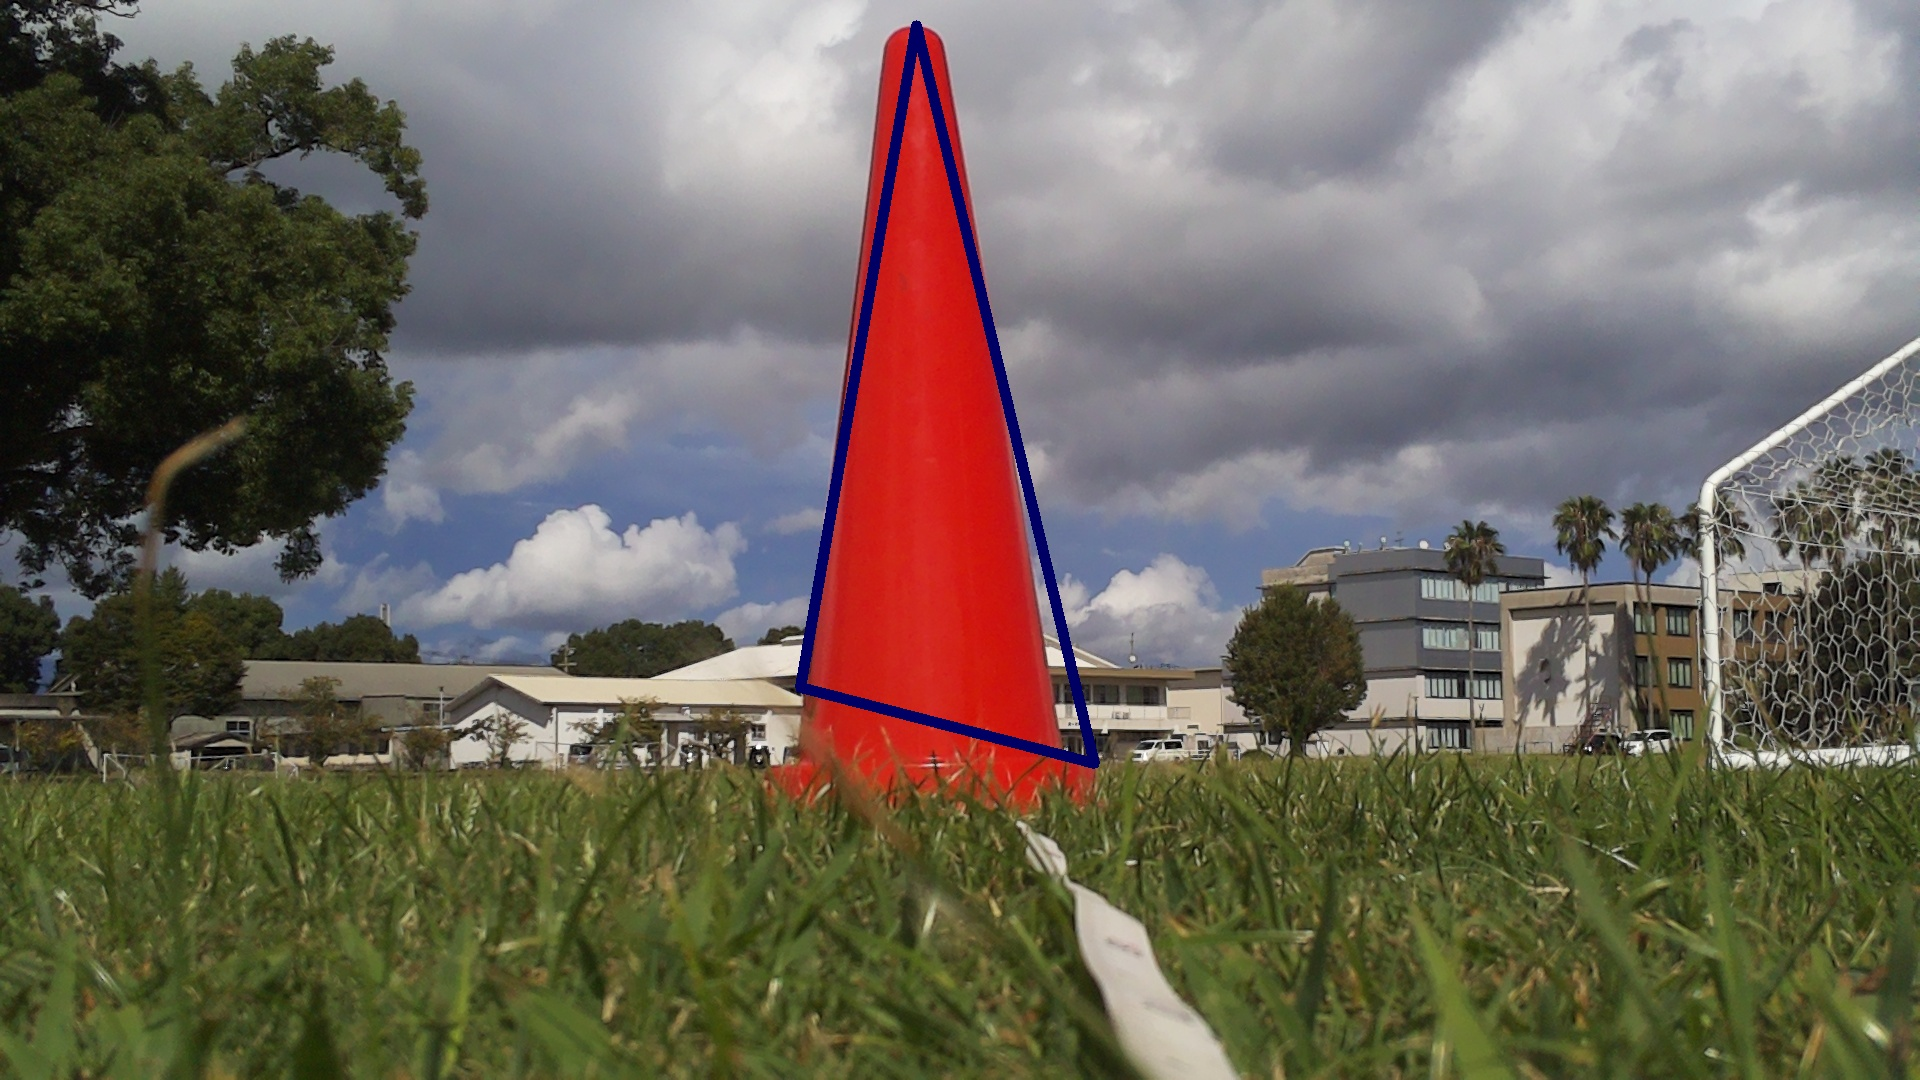
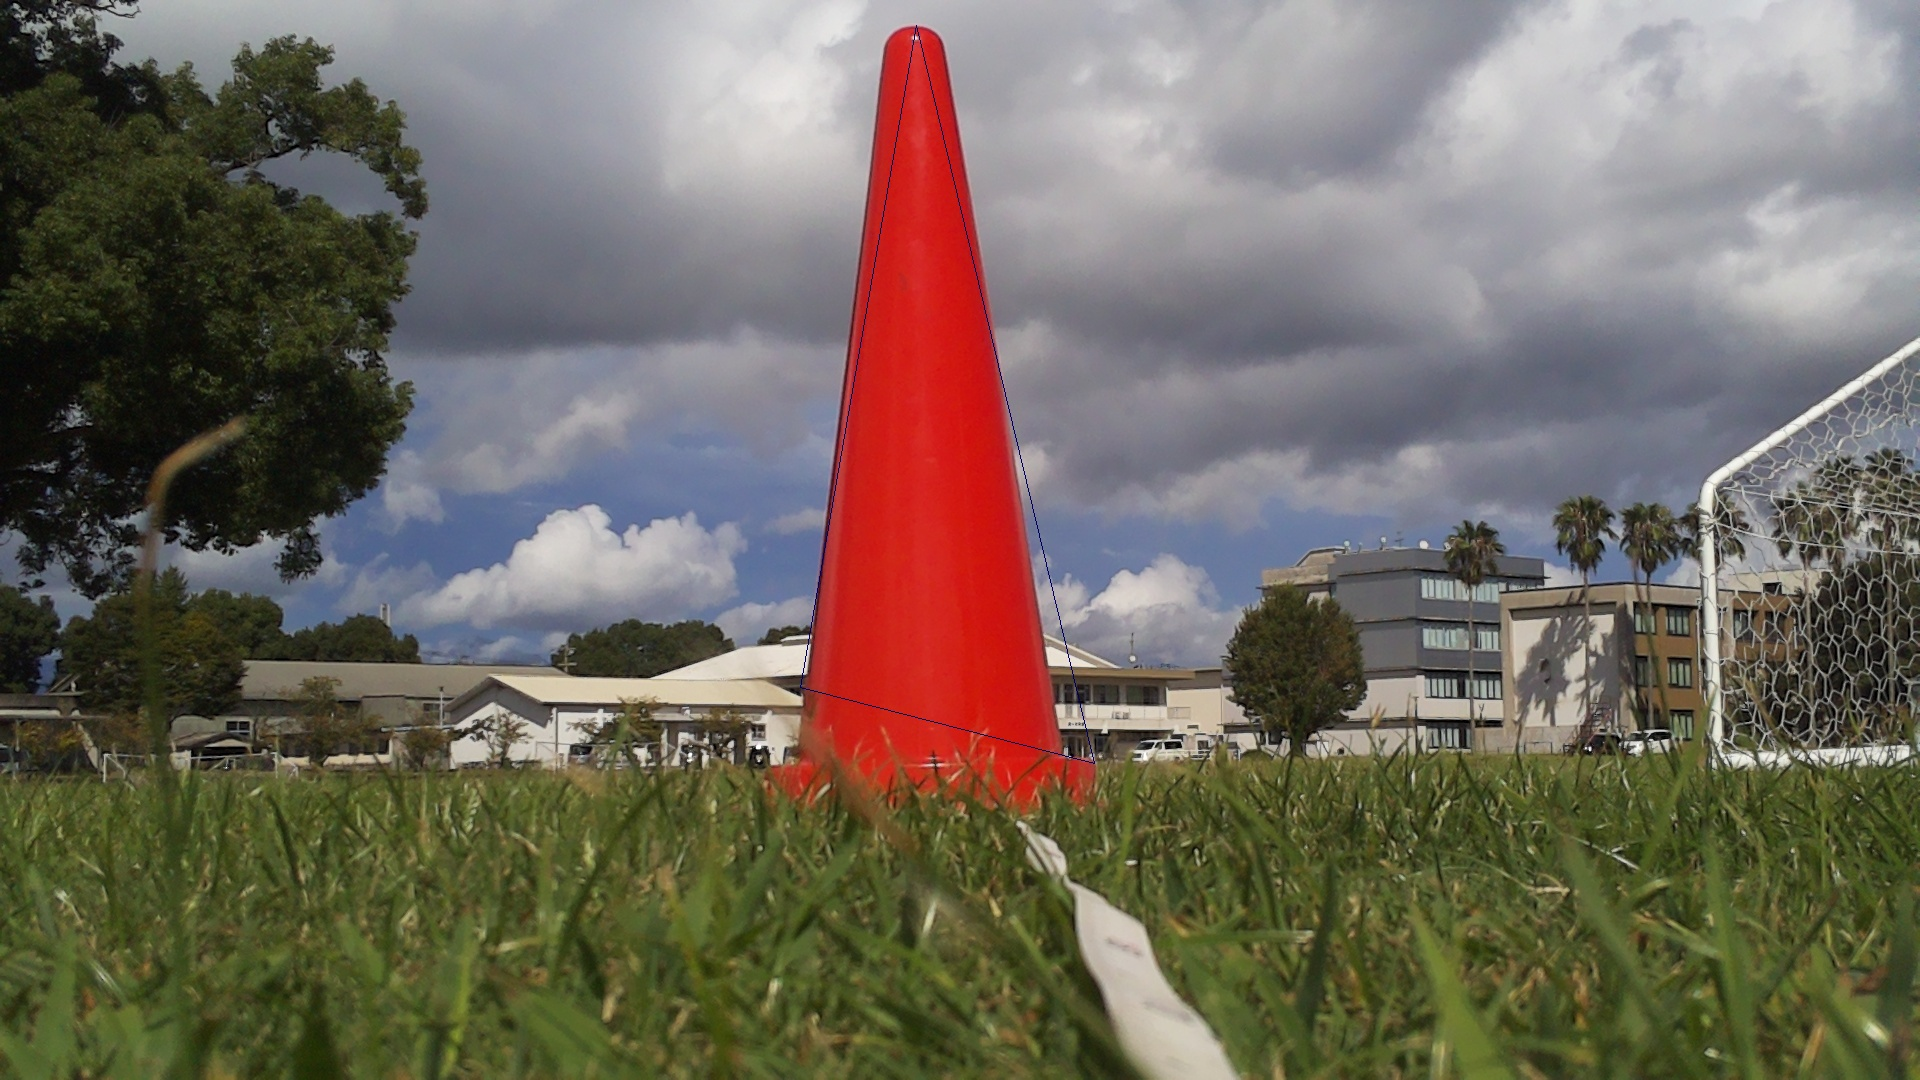
画像処理修正１

diff --git a/src/imagepre.py b/src/imagepre.py
@@ -44,9 +44,9 @@ def detect_target(filepass):
     coordinates_x["right"] = right[0]
     coordinates_y["right"] = right[1]
 
-    cv2.line(img,(coordinates_x["top"],coordinates_y["top"]),(coordinates_x["right"],coordinates_y["right"]),(100,0,0),thickness=10,lineType=cv2.LINE_8,shift=0)
-    cv2.line(img,(coordinates_x["right"],coordinates_y["right"]),(coordinates_x["left"],coordinates_y["left"]),(100,0,0),thickness=10,lineType=cv2.LINE_8,shift=0)
-    cv2.line(img,(coordinates_x["left"],coordinates_y["left"]),(coordinates_x["top"],coordinates_y["top"]),(100,0,0),thickness=10,lineType=cv2.LINE_8,shift=0)
+    cv2.line(img,(coordinates_x["top"],coordinates_y["top"]),(coordinates_x["right"],coordinates_y["right"]),(100,0,0),thickness=6,lineType=cv2.LINE_8,shift=0)
+    cv2.line(img,(coordinates_x["right"],coordinates_y["right"]),(coordinates_x["left"],coordinates_y["left"]),(100,0,0),thickness=6,lineType=cv2.LINE_8,shift=0)
+    cv2.line(img,(coordinates_x["left"],coordinates_y["left"]),(coordinates_x["top"],coordinates_y["top"]),(100,0,0),thickness=6,lineType=cv2.LINE_8,shift=0)
 
     cv2.imwrite("result1.jpg",img)
     center_x = (top[0] + left[0] + right[0]) / 3

diff --git a/src/image1.py b/src/image1.py
@@ -12,7 +12,7 @@ height = 1080
 width = 1920
 
 def detect_target(filepass):
-    filepass="C:/Users/delic/Downloads/200cm (1).jpg"
+    filepass="C:/Users/delic/Downloads/n200cm (1).jpg"
     img=cv2.imread(filepass)
     hsv=cv2.cvtColor(img,cv2.COLOR_BGR2HSV)
     mask1=cv2.inRange(hsv,low_color1,high_color1)
@@ -52,5 +52,5 @@ def detect_target(filepass):
     center_x = (top[0] + left[0] + right[0]) / 3
     return center_x
 
-center_x=detect_target("C:/Users/delic/Downloads/200cm (1).jpg")
+center_x=detect_target("C:/Users/delic/Downloads/n200cm (1).jpg")
 print (center_x)
